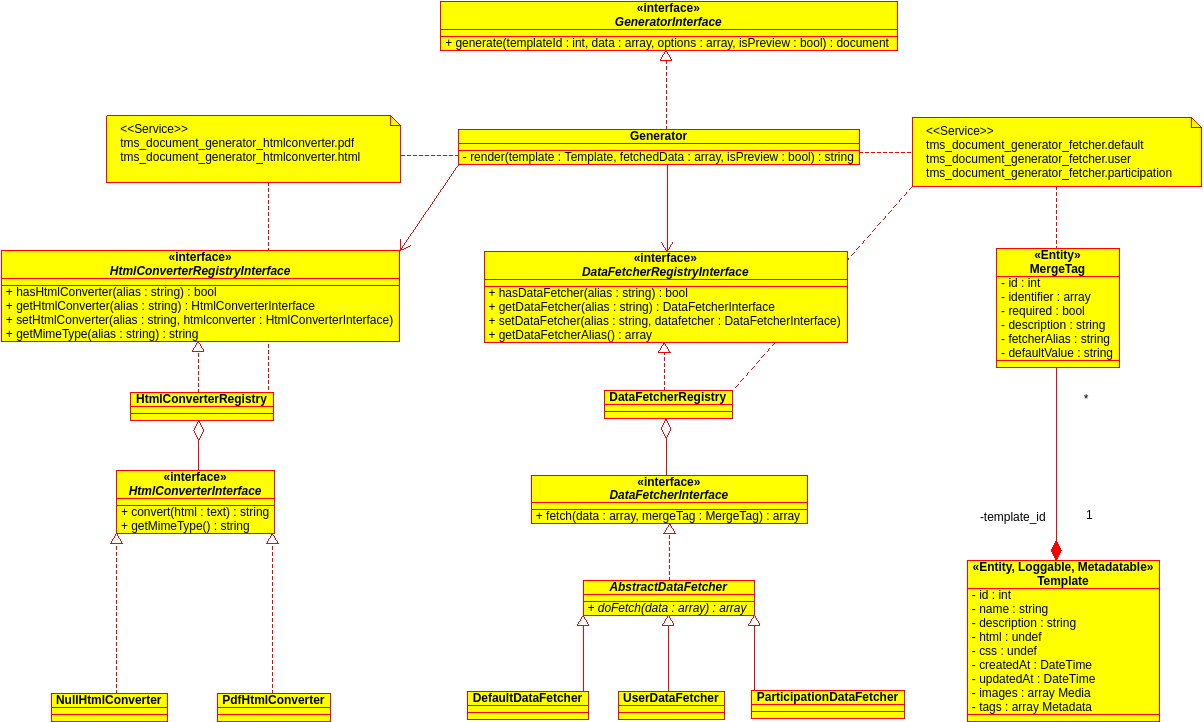
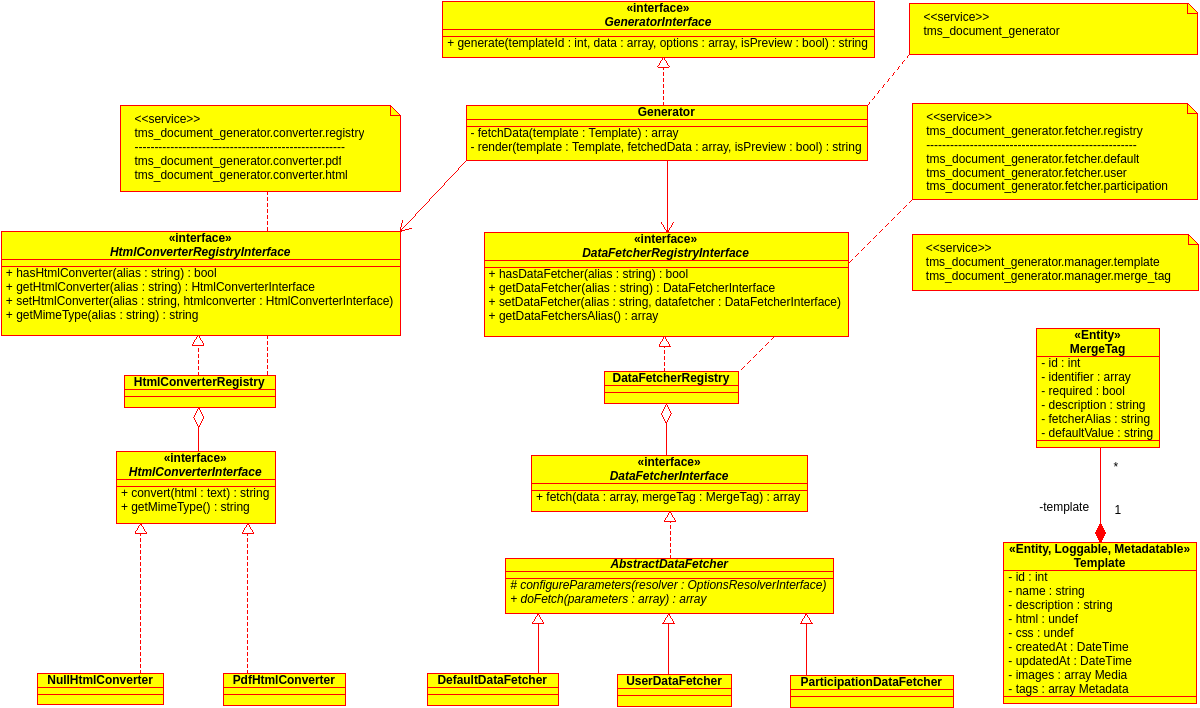
update class diagramme

diff --git a/DataFetcher/UserDataFetcher.php b/DataFetcher/UserDataFetcher.php
@@ -6,6 +6,9 @@
 
 namespace Tms\Bundle\DocumentGeneratorBundle\DataFetcher;
 
+use Symfony\Component\OptionsResolver\OptionsResolverInterface;
+use Symfony\Component\OptionsResolver\Options;
+
 use Tms\Bundle\RestClientBundle\Hypermedia\Crawling\CrawlerInterface;
 
 class UserDataFetcher extends AbstractDataFetcher
@@ -23,6 +26,17 @@ class UserDataFetcher extends AbstractDataFetcher
     public function __construct(CrawlerInterface $crawler)
     {
         $this->crawler = $crawler;
+    }
+
+    /**
+     * {@inheritDoc}
+     */
+    protected function configureParameters(OptionsResolverInterface $resolver)
+    {
+        parent::configureParameters($resolver);
+        $resolver
+            ->setOptional(array('_'))
+        ;
     }
 
     /**

diff --git a/DataFetcher/AbstractDataFetcher.php b/DataFetcher/AbstractDataFetcher.php
@@ -19,12 +19,7 @@ abstract class AbstractDataFetcher implements DataFetcherInterface
      *
      * @param OptionsResolverInterface $resolver
      */
-    protected function configureParameters(OptionsResolverInterface $resolver)
-    {
-        $resolver
-            ->setOptional(array('_'))
-        ;
-    }
+    protected abstract function configureParameters(OptionsResolverInterface $resolver);
 
     /**
      * {@inheritDoc}

diff --git a/Generator/Generator.php b/Generator/Generator.php
@@ -103,7 +103,7 @@ class Generator implements GeneratorInterface
      *                                   For a merge tag required,
      *                                   When his parameters witch is used by fetcher cannot be found in the data.
      */
-    protected function fetchData(Template $template, $data)
+    private function fetchData(Template $template, $data)
     {
         $fetchedData = array();
 

diff --git a/DataFetcher/DefaultDataFetcher.php b/DataFetcher/DefaultDataFetcher.php
@@ -17,8 +17,8 @@ class DefaultDataFetcher extends AbstractDataFetcher
      */
     protected function configureParameters(OptionsResolverInterface $resolver)
     {
-        parent::configureParameters($resolver);
         $resolver
+            ->setOptional(array('_'))
             ->setDefaults(array(
                 '_identifier_' => function (Options $options) {
                     return $options['_'];

diff --git a/DataFetcher/ParticipationDataFetcher.php b/DataFetcher/ParticipationDataFetcher.php
@@ -37,8 +37,8 @@ class ParticipationDataFetcher extends AbstractDataFetcher
      */
     protected function configureParameters(OptionsResolverInterface $resolver)
     {
-        parent::configureParameters($resolver);
         $resolver
+            ->setOptional(array('_'))
             ->setDefaults(array(
                 'id' => function (Options $options) {
                     return $options['_'];
